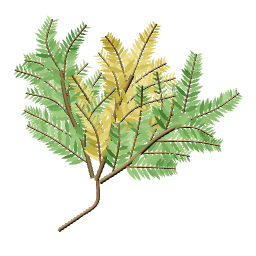
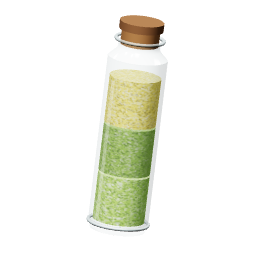
New pictures: mixed herbs as vials, black bass, viper, ornate beetle

diff --git a/scripts/icon-render/builders-extra.js b/scripts/icon-render/builders-extra.js
@@ -252,7 +252,7 @@ export function makeExtra(THREE) {
   };
   B.resources_s = bag('#2c3c63', [0x8a4a28, 0x6f3a22, 0xa0603a, 0x4a3024], 11); // blue sack, rusty scrap
   B.resources_l = bag('#7d5a3a', [0xaeb4ba, 0x787f86, 0xc9a24e, 0x55595e], 29); // brown sack, gears and brass
-  // ---------- herbs: bunches of feathery sprigs on thin stems, one bunch per herb of the mix
+  // ---------- single herbs: a bunch of feathery sprigs on a thin stem (mixes are vials, further below)
   const herbModel = (colors) => () => {
     const g = new THREE.Group(); let r = 5; const rnd = () => (r = (r * 16807) % 2147483647) / 2147483647;
     const stemM = M(0x6e5a34, 0, 0.8);
@@ -287,11 +287,7 @@ export function makeExtra(THREE) {
     g.userData.view = [0.12, -0.15, -0.3]; return g;
   };
   const HG = 0x5f9448, HR = 0xb0392c, HY = 0xc9ae35;
-  Object.assign(B, {
-    herb_green: herbModel([HG]), herb_red: herbModel([HR]), herb_yellow: herbModel([HY]),
-    herb_gg: herbModel([HG, HG]), herb_ggg: herbModel([HG, HG, HG]), herb_gr: herbModel([HG, HR]), herb_gy: herbModel([HG, HY]), herb_ry: herbModel([HR, HY]),
-    herb_ggy: herbModel([HG, HY, HG]), herb_gry: herbModel([HG, HR, HY]),
-  });
+  Object.assign(B, { herb_green: herbModel([HG]), herb_red: herbModel([HR]), herb_yellow: herbModel([HY]) });
 
   // ---------- first aid spray: pale olive can with a white shoulder and nozzle, our own lettering
   B.first_aid_spray = () => {
@@ -376,5 +372,128 @@ export function makeExtra(THREE) {
     [[0.14, 0.1, 0], [-0.12, -0.08, 0.12], [0.02, 0.3, -0.12]].forEach(([y, dx, z]) => { const a = arrow(shaft, red, 1.7); a.rotation.y = Math.PI; place(g, a, 1.35 + dx, y, z, 0, Math.PI, y * 0.35); });
     g.userData.view = [0.3, -0.3, 2.42]; return g;
   };
+  // ---------- black bass: lofted body with painted back, side stripe and belly; head to the right
+  B.bass = () => {
+    const g = new THREE.Group(); let r = 17; const rnd = () => (r = (r * 16807) % 2147483647) / 2147483647;
+    // x along the fish, top and bottom outline, half width
+    const prof = [[-1.9, 0.14, -0.12, 0.05], [-1.6, 0.17, -0.15, 0.08], [-1.0, 0.45, -0.36, 0.2], [-0.3, 0.68, -0.52, 0.3], [0.4, 0.66, -0.55, 0.32], [1.0, 0.47, -0.45, 0.27], [1.45, 0.3, -0.3, 0.2], [1.8, 0.13, -0.14, 0.1], [1.98, 0.02, -0.04, 0.02]];
+    const at = (x, i) => { let k = 1; while (k < prof.length - 1 && x > prof[k][0]) k++; const a = prof[k - 1], b = prof[k]; const f = Math.min(1, Math.max(0, (x - a[0]) / (b[0] - a[0]))); const e = f * f * (3 - 2 * f); return a[i] + (b[i] - a[i]) * (0.5 * f + 0.5 * e); };
+    const skin = canvasTex(1024, 512, (x) => {
+      const gr = x.createLinearGradient(0, 0, 0, 512); gr.addColorStop(0, '#2f3a1c'); gr.addColorStop(0.3, '#6d7434'); gr.addColorStop(0.55, '#a9a55c'); gr.addColorStop(0.72, '#d9d3a4'); gr.addColorStop(1, '#efeac8'); x.fillStyle = gr; x.fillRect(0, 0, 1024, 512);
+      for (let i = 0; i < 2600; i++) { x.fillStyle = rnd() < 0.5 ? 'rgba(40,48,20,.28)' : 'rgba(235,232,180,.2)'; const px = rnd() * 1024, py = rnd() * 400; x.beginPath(); x.arc(px, py, 3 + rnd() * 3, 0, 7); x.fill(); }
+      for (let i = 0; i < 70; i++) { x.fillStyle = 'rgba(33,40,16,.72)'; x.beginPath(); x.ellipse(60 + rnd() * 880, 250 + (rnd() - 0.5) * 62, 10 + rnd() * 22, 8 + rnd() * 16, rnd(), 0, 7); x.fill(); }
+    });
+    const geo = new THREE.SphereGeometry(1, 96, 64); const pos = geo.attributes.position, uv = geo.attributes.uv; const v = new THREE.Vector3();
+    for (let i = 0; i < pos.count; i++) {
+      v.fromBufferAttribute(pos, i);
+      const x = v.x * 1.94 + 0.04; const ang = Math.atan2(v.y, v.z); const top = at(x, 1), bot = at(x, 2), w = at(x, 3);
+      const y = Math.sin(ang) >= 0 ? Math.sin(ang) * top : -Math.sin(ang) * bot;
+      pos.setXYZ(i, x, y, Math.cos(ang) * w);
+      uv.setXY(i, (x + 1.9) / 3.9, 0.5 + y / 1.28);
+    }
+    geo.computeVertexNormals();
+    add(g, geo, new THREE.MeshStandardMaterial({ map: skin, roughness: 0.42, metalness: 0.15 }), 0, 0, 0);
+    const fin = M(0x6a6c35, 0.05, 0.6, { side: THREE.DoubleSide }), finDark = M(0x3e4620, 0.05, 0.6, { side: THREE.DoubleSide });
+    const flatShape = (pts, m, z = 0) => { const sh = new THREE.Shape(); pts.forEach(([x, y], i) => (i ? sh.lineTo(x, y) : sh.moveTo(x, y))); add(g, new THREE.ShapeGeometry(sh), m, 0, 0, z); };
+    flatShape([[-1.85, 0.12], [-2.55, 0.55], [-2.42, 0.1], [-2.3, 0.0], [-2.42, -0.1], [-2.55, -0.52], [-1.85, -0.1]], fin);            // tail
+    flatShape([[-0.35, 0.64], [-0.05, 0.98], [0.05, 0.8], [0.2, 1.0], [0.3, 0.8], [0.48, 0.96], [0.55, 0.77], [0.74, 0.86], [0.8, 0.52]], finDark); // spiny back fin
+    flatShape([[-1.2, 0.33], [-1.1, 0.86], [-0.75, 0.86], [-0.35, 0.63]], fin);                                                            // soft back fin
+    flatShape([[-1.15, -0.3], [-1.12, -0.68], [-0.75, -0.62], [-0.55, -0.45]], fin);                                                         // anal fin
+    flatShape([[0.45, -0.5], [0.2, -0.82], [0.62, -0.72], [0.75, -0.46]], fin, 0.16);
+    flatShape([[0.8, -0.1], [0.28, -0.2], [0.32, -0.42], [0.78, -0.26]], finDark, 0.34);                                                   // pectoral fin
+    sph(g, 0.115, M(0xd8b23c, 0.4, 0.25), 1.38, 0.1, 0.205); sph(g, 0.062, black, 1.4, 0.1, 0.3);
+    const line = (pts, m, rad) => add(g, new THREE.TubeGeometry(new THREE.CatmullRomCurve3(pts.map((q) => new THREE.Vector3(...q))), 20, rad, 6, false), m);
+    line([[1.97, -0.02, 0.02], [1.62, -0.12, 0.19], [1.22, -0.2, 0.26]], M(0x2a2a14, 0, 0.8), 0.02);                                        // mouth
+    line([[0.92, 0.36, 0.27], [0.8, 0.02, 0.31], [0.92, -0.34, 0.27]], M(0x4a4e24, 0, 0.8), 0.018);                                          // gill cover
+    g.userData.view = [0.12, -0.22, 0.06]; return g;
+  };
+
+  // ---------- viper: a coiled body with a yellow and black pattern
+  B.viper = () => {
+    const g = new THREE.Group(); let r = 23; const rnd = () => (r = (r * 16807) % 2147483647) / 2147483647;
+    const skin = canvasTex(2048, 256, (x) => {
+      x.fillStyle = '#4a4418'; x.fillRect(0, 0, 2048, 256);
+      for (let i = 0; i < 5200; i++) { x.fillStyle = ['#b9a82e', '#8d8524', '#252009', '#d6c448'][Math.floor(rnd() * 4)]; const px = rnd() * 2048, py = rnd() * 256; x.beginPath(); x.ellipse(px, py, 7, 4, 0, 0, 7); x.fill(); }
+      for (let i = 0; i < 26; i++) { const cx = i * 80 + 30; for (const cy of [60, 196]) { x.fillStyle = 'rgba(12,10,3,.85)'; x.beginPath(); x.moveTo(cx - 34, cy); x.lineTo(cx, cy - 46); x.lineTo(cx + 34, cy); x.lineTo(cx, cy + 46); x.fill(); } }
+    });
+    skin.wrapS = skin.wrapT = THREE.RepeatWrapping;
+    const path = new THREE.CatmullRomCurve3([[-0.95, -0.85, 0.34], [-0.72, -0.3, 0.3], [-0.2, 0.55, 0.38], [0.75, 0.85, 0.3], [1.5, 0.35, 0.15], [1.15, -0.4, 0.05], [0.1, -0.55, 0], [-1.0, -0.3, 0], [-1.55, 0.2, 0.05], [-1.05, 0.62, 0.02], [0.0, 0.2, 0], [0.9, 0.05, 0], [1.75, 0.55, 0.02], [1.7, 1.05, 0.05], [2.0, 1.35, 0.08]].map((q) => new THREE.Vector3(...q)));
+    const SEG = 320, RAD = 28; const geo = new THREE.TubeGeometry(path, SEG, 1, RAD, false); const pos = geo.attributes.position;
+    for (let i = 0; i <= SEG; i++) {
+      const t = i / SEG; const c = path.getPointAt(t);
+      const rad = t < 0.03 ? 0.19 : t < 0.1 ? 0.17 + (t - 0.03) * 1.2 : t < 0.62 ? 0.255 : 0.255 * Math.max(0.08, 1 - Math.pow((t - 0.62) / 0.38, 1.4));
+      for (let j = 0; j <= RAD; j++) { const k = i * (RAD + 1) + j; const v = new THREE.Vector3().fromBufferAttribute(pos, k).sub(c).multiplyScalar(rad).add(c); pos.setXYZ(k, v.x, v.y, v.z); }
+    }
+    geo.computeVertexNormals();
+    add(g, geo, new THREE.MeshStandardMaterial({ map: skin, roughness: 0.55, metalness: 0.12 }), 0, 0, 0);
+    const headM = M(0x7a6a1e, 0.15, 0.5), dir = path.getTangentAt(0).negate(); const head = new THREE.Group();
+    sph(head, 0.25, headM, 0.14, 0, 0, 1.45, 1.05, 0.68); sph(head, 0.16, M(0x5c501a, 0.15, 0.55), 0.38, 0, 0.0, 1.2, 0.85, 0.6);
+    for (const side of [-1, 1]) { sph(head, 0.055, M(0xd8a82a, 0.4, 0.25), 0.24, side * 0.17, 0.12); sph(head, 0.026, black, 0.27, side * 0.185, 0.155); }
+    head.position.copy(path.getPointAt(0)); head.rotation.z = Math.atan2(dir.y, dir.x); g.add(head);
+    g.userData.view = [-0.55, 0.12]; return g;
+  };
+
+  // ---------- ornate beetle: blue enamel with gold ornament
+  B.ornate_beetle = () => {
+    const g = new THREE.Group(); const bronze = M(0x9a7a32, 0.85, 0.32, { emissive: 0x1c1300 });
+    const ornament = (w, h, draw) => canvasTex(w, h, (x) => {
+      x.fillStyle = '#162452'; x.fillRect(0, 0, w, h); let r = 9; for (let i = 0; i < 1400; i++) { r = (r * 16807) % 2147483647; const a = r / 2147483647; r = (r * 16807) % 2147483647; x.fillStyle = 'rgba(120,150,220,.22)'; x.fillRect(a * w, (r / 2147483647) * h, 2, 2); }
+      x.strokeStyle = '#d6a83e'; x.fillStyle = '#e8bd52'; x.lineWidth = 11; x.lineCap = 'round';
+      const curl = (cx, cy, R, from, dir) => { x.beginPath(); for (let t = 0; t <= 1.001; t += 0.03) { const a = from + dir * t * 8, rr = R * (1 - t * 0.8); const px = cx + Math.cos(a) * rr, py = cy + Math.sin(a) * rr; t ? x.lineTo(px, py) : x.moveTo(px, py); } x.stroke(); };
+      const flower = (cx, cy, R) => { for (let i = 0; i < 7; i++) { const a = i * Math.PI * 2 / 7; x.beginPath(); x.ellipse(cx + Math.cos(a) * R * 0.62, cy + Math.sin(a) * R * 0.62, R * 0.46, R * 0.22, a, 0, 7); x.fill(); } x.fillStyle = '#fbe49a'; x.beginPath(); x.arc(cx, cy, R * 0.3, 0, 7); x.fill(); x.fillStyle = '#e8bd52'; };
+      draw(x, curl, flower);
+    });
+    const wings = ornament(512, 700, (x, curl, flower) => {
+      x.beginPath(); x.moveTo(256, 20); x.lineTo(256, 690); x.stroke();
+      for (const m of [-1, 1]) { const X = (v) => 256 + m * v;
+        x.beginPath(); x.moveTo(X(14), 150); x.bezierCurveTo(X(90), 60, X(210), 130, X(190), 260); x.bezierCurveTo(X(175), 360, X(60), 330, X(60), 420); x.bezierCurveTo(X(60), 530, X(200), 480, X(160), 590); x.stroke();
+        curl(X(150), 190, 52, m > 0 ? 3 : 0, m); curl(X(95), 330, 46, m > 0 ? 0 : 3, -m); curl(X(170), 440, 48, 1, m); curl(X(80), 560, 52, m > 0 ? 4 : 5, -m); curl(X(70), 100, 40, 2, m);
+        flower(X(150), 290, 42); flower(X(70), 485, 36); }
+      flower(256, 130, 30);
+    });
+    const collar = ornament(512, 300, (x, curl) => { for (const m of [-1, 1]) { const X = (v) => 256 + m * v; curl(X(80), 150, 70, m > 0 ? 3 : 0, m); curl(X(170), 190, 54, m > 0 ? 0 : 3, -m); x.beginPath(); x.moveTo(X(0), 40); x.bezierCurveTo(X(60), 120, X(170), 40, X(230), 150); x.stroke(); } x.beginPath(); x.moveTo(256, 30); x.lineTo(256, 270); x.stroke(); });
+    const dome = (rx, ry, rz, y, tex) => {
+      const geo = new THREE.SphereGeometry(1, 80, 56); const pos = geo.attributes.position, uv = geo.attributes.uv;
+      for (let i = 0; i < pos.count; i++) { const px = pos.getX(i), py = pos.getY(i); uv.setXY(i, 0.5 + px * 0.5, 0.5 + py * 0.5); }
+      const o = add(g, geo, new THREE.MeshStandardMaterial({ map: tex, metalness: 0.45, roughness: 0.2 }), 0, y, 0); o.scale.set(rx, ry, rz);
+      const rim = add(g, new THREE.TorusGeometry(1, 0.035, 10, 80), bronze, 0, y, 0); rim.scale.set(rx, ry, 1);
+    };
+    dome(0.98, 1.32, 0.52, -0.35, wings); dome(0.74, 0.46, 0.42, 1.12, collar);
+    sph(g, 0.3, bronze, 0, 1.68, 0.05, 1.25, 0.8, 0.8); for (const m of [-1, 1]) sph(g, 0.09, M(0x3a2c0c, 0.8, 0.25), m * 0.24, 1.78, 0.24);
+    const leg = (pts, rad) => { add(g, new THREE.TubeGeometry(new THREE.CatmullRomCurve3(pts.map((q) => new THREE.Vector3(...q)), false, 'catmullrom', 0.1), 40, rad, 10, false), bronze); pts.slice(1).forEach((q) => sph(g, rad * 1.35, bronze, ...q)); };
+    for (const m of [-1, 1]) {
+      leg([[m * 0.45, 1.2, -0.1], [m * 1.05, 1.3, -0.1], [m * 1.12, 1.8, -0.1], [m * 1.45, 2.0, -0.1]], 0.07);
+      leg([[m * 0.75, 0.25, -0.12], [m * 1.28, 0.3, -0.12], [m * 1.35, -0.22, -0.12], [m * 1.62, -0.55, -0.12]], 0.075);
+      leg([[m * 0.7, -0.75, -0.12], [m * 1.15, -1.05, -0.12], [m * 1.12, -1.6, -0.12], [m * 1.38, -2.05, -0.12]], 0.075);
+    }
+    g.userData.view = [-0.25, 0.12]; return g;
+  };
+  // ---------- mixed herbs: a corked glass vial with one layer of powder per herb (the first herb at the bottom), as in the game
+  const vialModel = (letters) => () => {
+    const g = new THREE.Group(); const colors = { g: '#8fbf3a', r: '#d9737c', y: '#e6cf3e' };
+    const total = 2.5, h = total / letters.length;
+    letters.split('').forEach((l, i) => {
+      let r = 31 + i * 7; const rnd = () => (r = (r * 16807) % 2147483647) / 2147483647;
+      const grain = canvasTex(512, 256, (x) => {
+        x.fillStyle = colors[l]; x.fillRect(0, 0, 512, 256);
+        for (let k = 0; k < 4200; k++) { x.fillStyle = rnd() < 0.5 ? 'rgba(0,0,0,.26)' : 'rgba(255,255,255,.34)'; x.beginPath(); x.arc(rnd() * 512, rnd() * 256, 1.5 + rnd() * 3, 0, 7); x.fill(); }
+      });
+      // two layers of the same herb next to each other stay apart by their shade
+      const shade = letters.indexOf(l) < i && letters[i - 1] === l ? ((i % 2) ? 0xc4c4c4 : 0xffffff) : 0xffffff;
+      const m = new THREE.MeshStandardMaterial({ map: grain, color: shade, roughness: 0.9, metalness: 0, emissive: new THREE.Color(colors[l]).multiplyScalar(0.18) });
+      add(g, new THREE.CylinderGeometry(0.43, 0.43, h - 0.035, 48), m, 0, -total / 2 + h * i + h / 2, 0);
+    });
+    const glass = new THREE.MeshStandardMaterial({ color: 0xd9ecee, metalness: 0.2, roughness: 0.05, transparent: true, opacity: 0.2, depthWrite: false });
+    add(g, new THREE.CylinderGeometry(0.5, 0.5, total + 0.34, 48, 1, true), glass, 0, 0.14, 0);
+    add(g, lathe([[0.5, -total / 2 - 0.03], [0.46, -total / 2 - 0.14], [0.3, -total / 2 - 0.18], [0, -total / 2 - 0.19]], 48), glass);
+    add(g, lathe([[0.5, total / 2 + 0.3], [0.36, total / 2 + 0.44], [0.34, total / 2 + 0.56], [0.4, total / 2 + 0.62]], 48), glass);
+    const rim = new THREE.MeshStandardMaterial({ color: 0xcfe4e6, metalness: 0.5, roughness: 0.12, transparent: true, opacity: 0.75 });
+    for (const [y, rad] of [[total / 2 + 0.62, 0.4], [-total / 2 - 0.02, 0.5]]) add(g, new THREE.TorusGeometry(rad, 0.028, 10, 48), rim, 0, y, 0).rotation.x = Math.PI / 2;
+    box(g, 0.055, total - 0.1, 0.02, new THREE.MeshStandardMaterial({ color: 0xffffff, emissive: 0xffffff, emissiveIntensity: 0.5, transparent: true, opacity: 0.35 }), -0.27, 0, 0.43);
+    const cork = M(0x9a6b3c, 0, 0.9);
+    cyl(g, 0.32, 0.3, cork, 0, total / 2 + 0.68, 0, 32); cyl(g, 0.37, 0.14, M(0x7d5430, 0, 0.9), 0, total / 2 + 0.86, 0, 32);
+    g.userData.view = [0.22, -0.25, -0.12]; return g;
+  };
+  for (const k of ['gg', 'ggg', 'gr', 'gy', 'ry', 'ggy', 'gry']) B['herb_' + k] = vialModel(k);
   return B;
 }

diff --git a/CHANGELOG.md b/CHANGELOG.md
@@ -1,7 +1,9 @@
 # Changelog
 
 ## Unreleased (for 0.9.5)
-- New pictures for the herbs and their mixes (bunches of feathery leaves), the first aid spray, the three grenades (one shape, green, blue and red), the mines, the bolts and the explosive arrows. The leaf stays the logo of the editor.
+- New pictures for the Black Bass, the viper and the Ornate Beetle.
+- Mixed herbs are drawn as corked vials with a layer of powder per herb, as in the game.
+- New pictures for the single herbs (bunches of feathery leaves), the first aid spray, the three grenades (one shape, green, blue and red), the mines, the bolts and the explosive arrows. The leaf stays the logo of the editor.
 - New pictures for the ammunition boxes (a colour for every kind), the gunpowder tin and the two bags of resources, closer to how they look in the game.
 - The Inventory lists show the picture of every item and weapon instead of the category sign.
 - **Undo** (button and Ctrl+Z): takes back the last changes one by one, up to 30.
